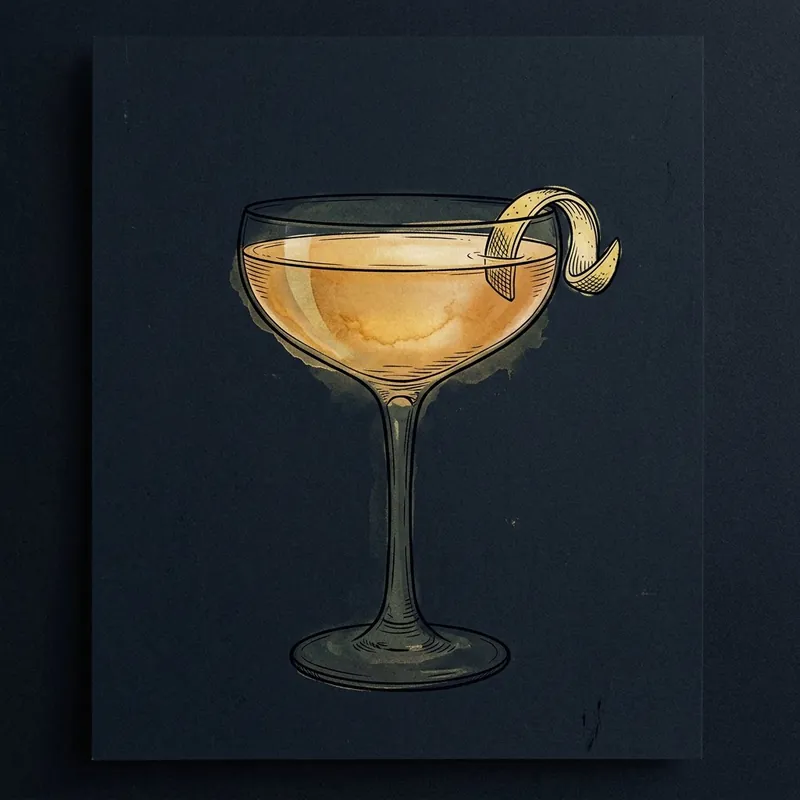
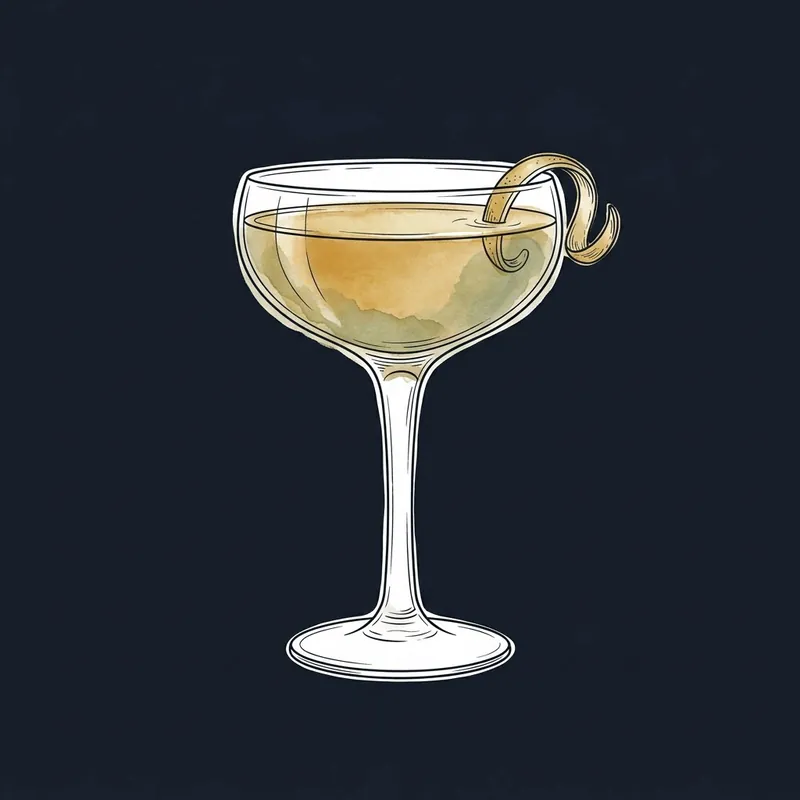
Add files via upload

Changed region(s): [[0.2812, 0.1875, 0.7812, 0.875], [0.0625, 0.0625, 0.8125, 1.0]]

diff --git a/src/lib/drink-art.ts b/src/lib/drink-art.ts
@@ -20,14 +20,14 @@ export const DRINK_ART: Record<string, string> = {
   "new-york-sour": "/images/cocktails/new-york-sour.webp",
   "vieux-carre": "/images/cocktails/vieux-carre.webp",
   "white-russian": "/images/cocktails/white-russian.webp",
-  // 金酒 / 方杯系
+  // 金酒系（已集齐 8/8）
   martini: "/images/cocktails/martini.webp",
   "gin-tonic": "/images/cocktails/gin-tonic.webp",
+  "tom-collins": "/images/cocktails/tom-collins.webp",
   aviation: "/images/cocktails/aviation.webp",
   "french-75": "/images/cocktails/french-75.webp",
   "last-word": "/images/cocktails/last-word.webp",
   "bees-knees": "/images/cocktails/bees-knees.webp",
-  "tom-collins": "/images/cocktails/tom-collins.webp",
   "mint-julep": "/images/cocktails/mint-julep.webp",
   // 伏特加系
   "moscow-mule": "/images/cocktails/moscow-mule.webp",

diff --git a/CHANGELOG-20260831.md b/CHANGELOG-20260831.md
@@ -1,3 +1,15 @@
+# 变更说明 · 2026-09-01（蜂刺背景分层返工 · 新增第四道质检关卡）
+
+用户肉眼发现蜂刺 v1 背景"多层"违和——量化证实：四角（纯背景区）亮度
+16/21/30/41，跨度 24.8，即背景存在画框感/晕影。v2 修平背景（跨度 0.7）但
+杯侧有残次线条；v3 在提示词中加入"洁净度禁令"（无杂线、无杯脚投影、背景
+四角一致）后达标：四角 29/29/29/29、无白边、视觉审稿 9.4/10，采纳。
+返工后对全库 31 张做背景四角复检：除已替换的蜂刺外无异常。
+教训：视觉模型对"背景分层"漏检（v1 曾给它 60/60），此后每张新图在内容审稿、
+白边自检、登记一致性之外，新增【四角背景一致性 ≤12】程序化硬检。
+
+---
+
 # 变更说明 · 2026-09-01（金酒分类插画收官 · 总 31/50）
 
 按"一轮一款、逐张审稿"节奏补齐金酒分类 5 张：金汤力（首版 Seedream 白描边
@@ -6,6 +18,19 @@
 内容对照配方字段审稿、边缘亮度白边自检、登记表↔文件一致性校验（该自检
 当场逮住两次登记缺行）。金酒基酒 8 款（含干马天尼、内格罗尼、汤姆柯林斯）
 至此全部有图。
+
+---
+
+# 变更说明 · 2026-09-01（金酒系插画集齐 8/8）
+
+金酒分类全部配上插画（总 31/50）：新增金汤力、航空、法式75、最后的话、
+蜂刺 5 张，逐张通过"杯型/颜色/装饰白名单/无文字"机器核对：
+
+- 航空：淡薰衣草蓝酒液 + 绿樱桃特征完美还原（满分通过）
+- 最后的话：首版樱桃画成黑紫色（丢了吧里的灵魂绿樱桃），重抽 v2 采纳
+- 法式75：笛杯/金泡全对，装饰色偏棕（小瑕疵，可接受）
+- 金汤力：直筒杯满方冰气泡感十足，多了两颗杜松果（酒谱本就允许，采纳）
+- 蜂刺：蜜金酒液 + 柠檬皮卷，满分通过
 
 ---
 
